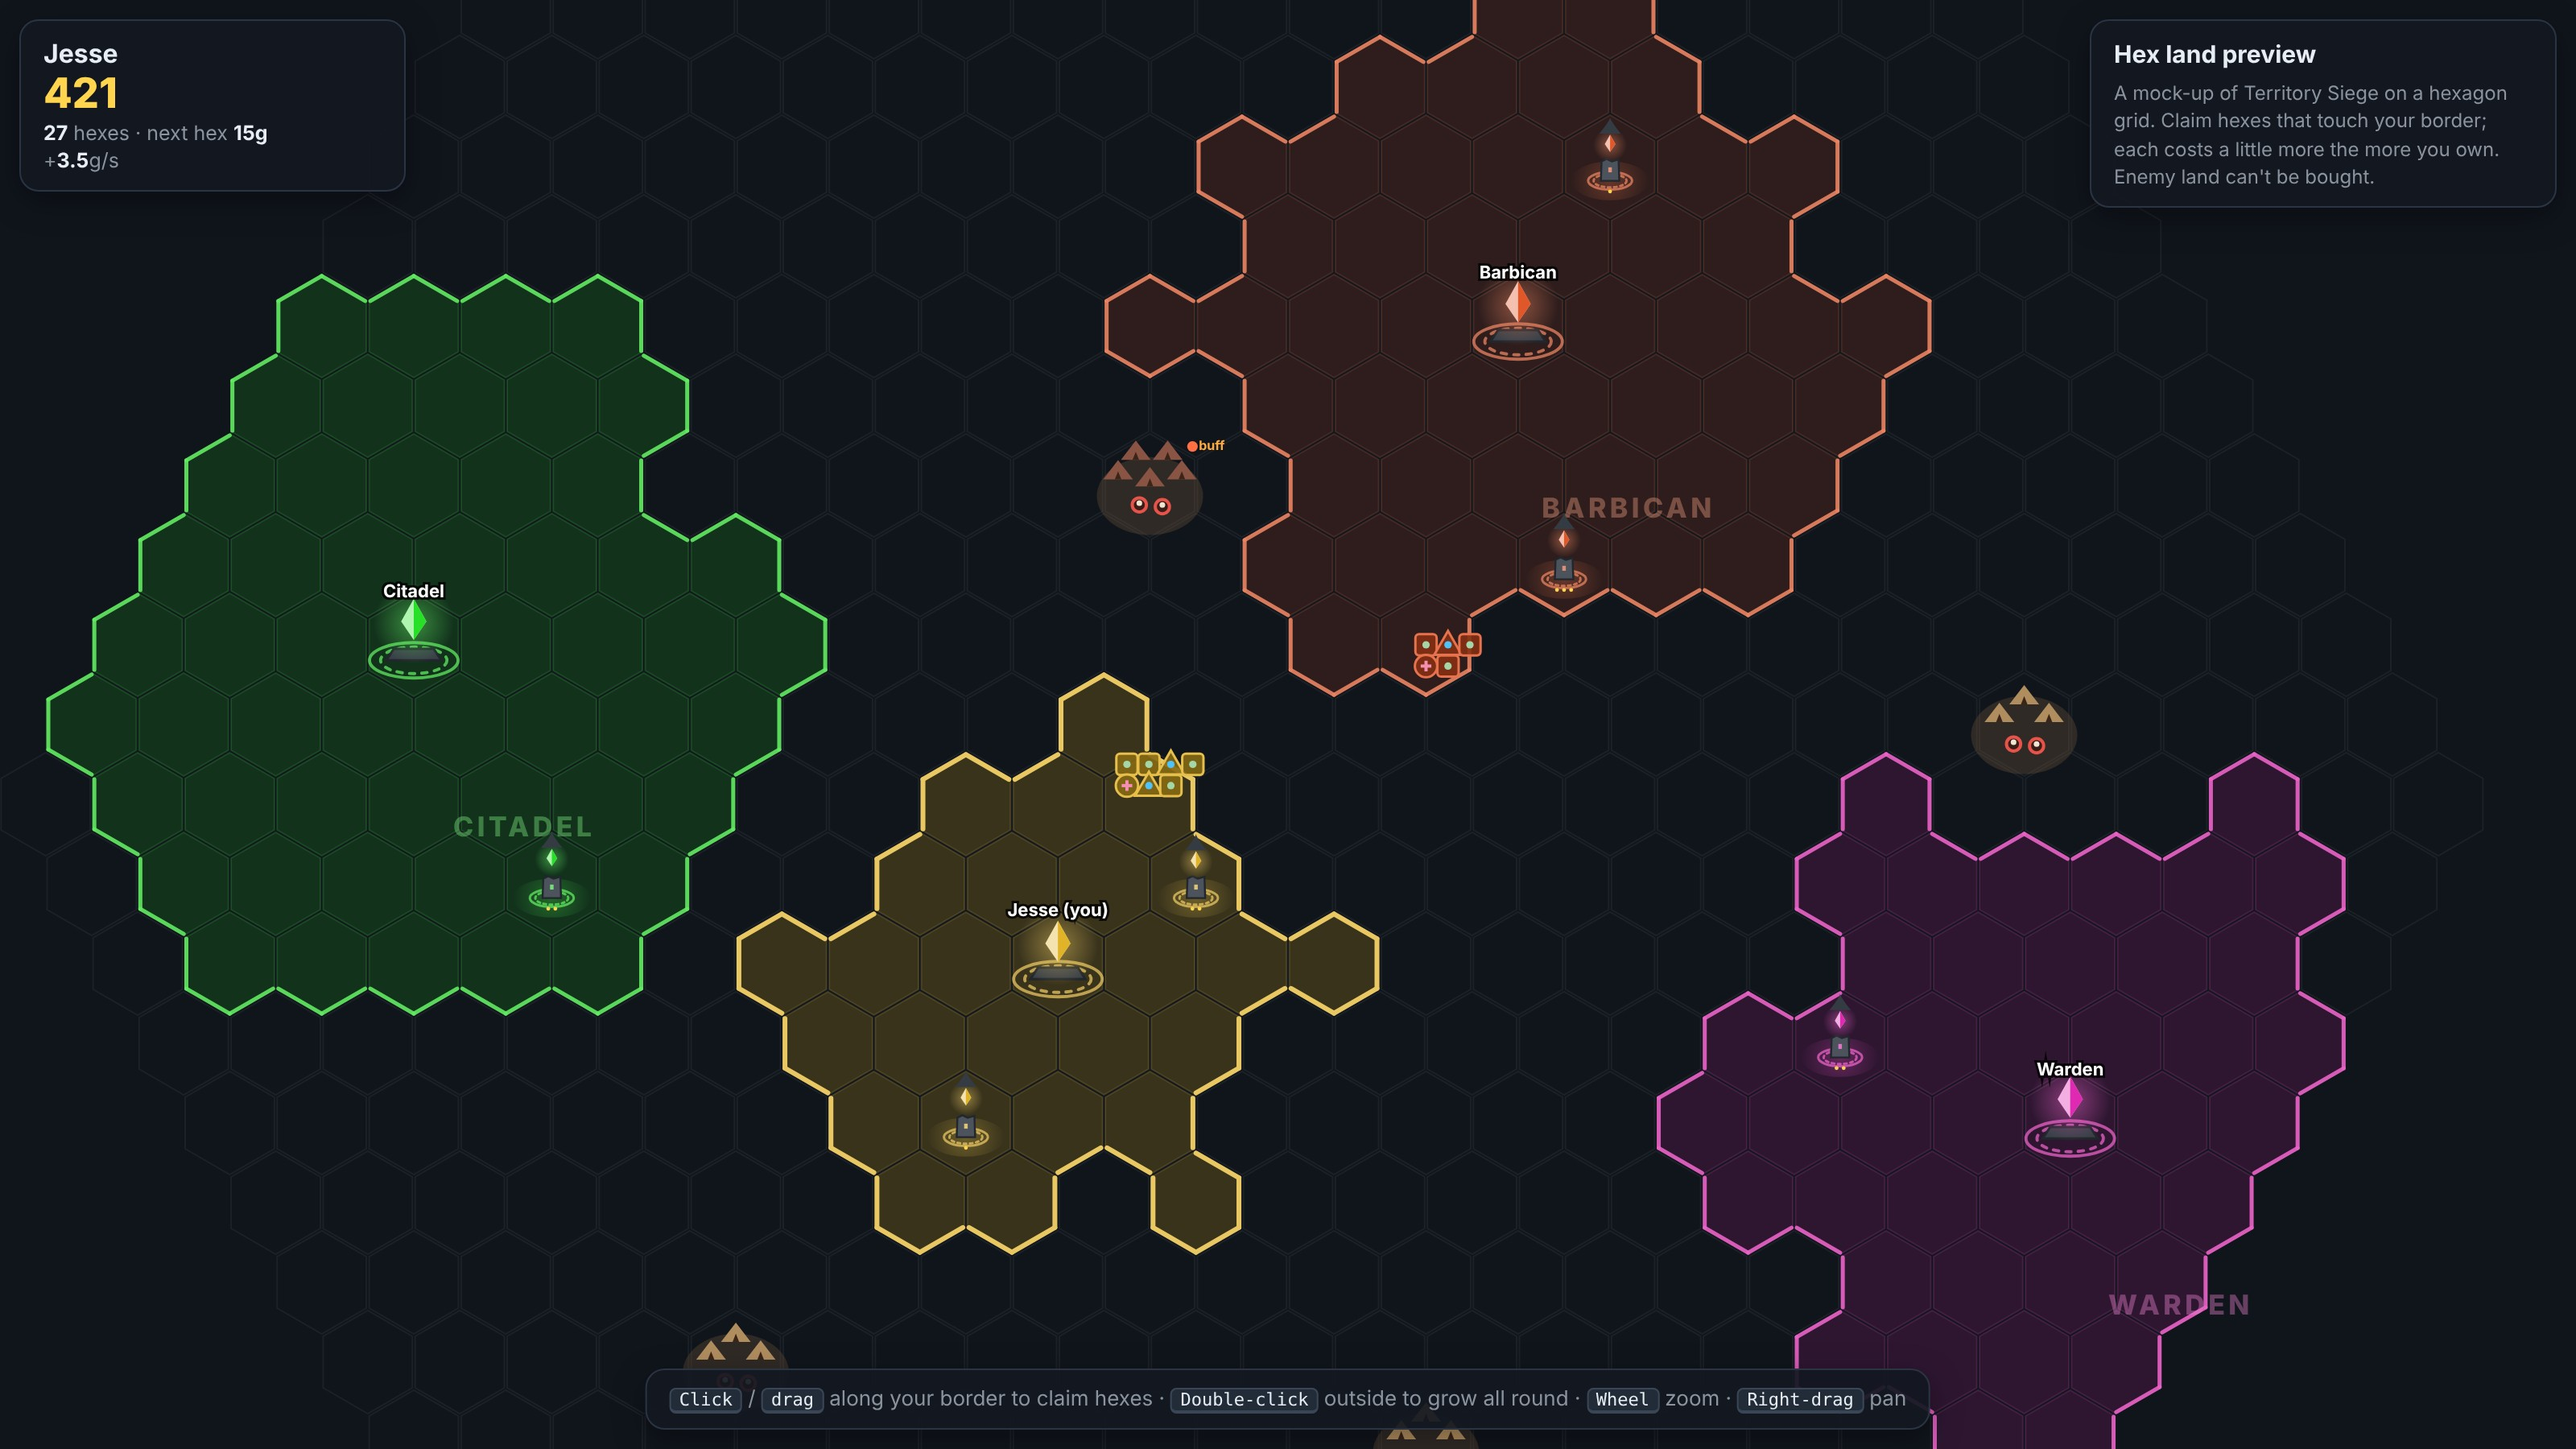
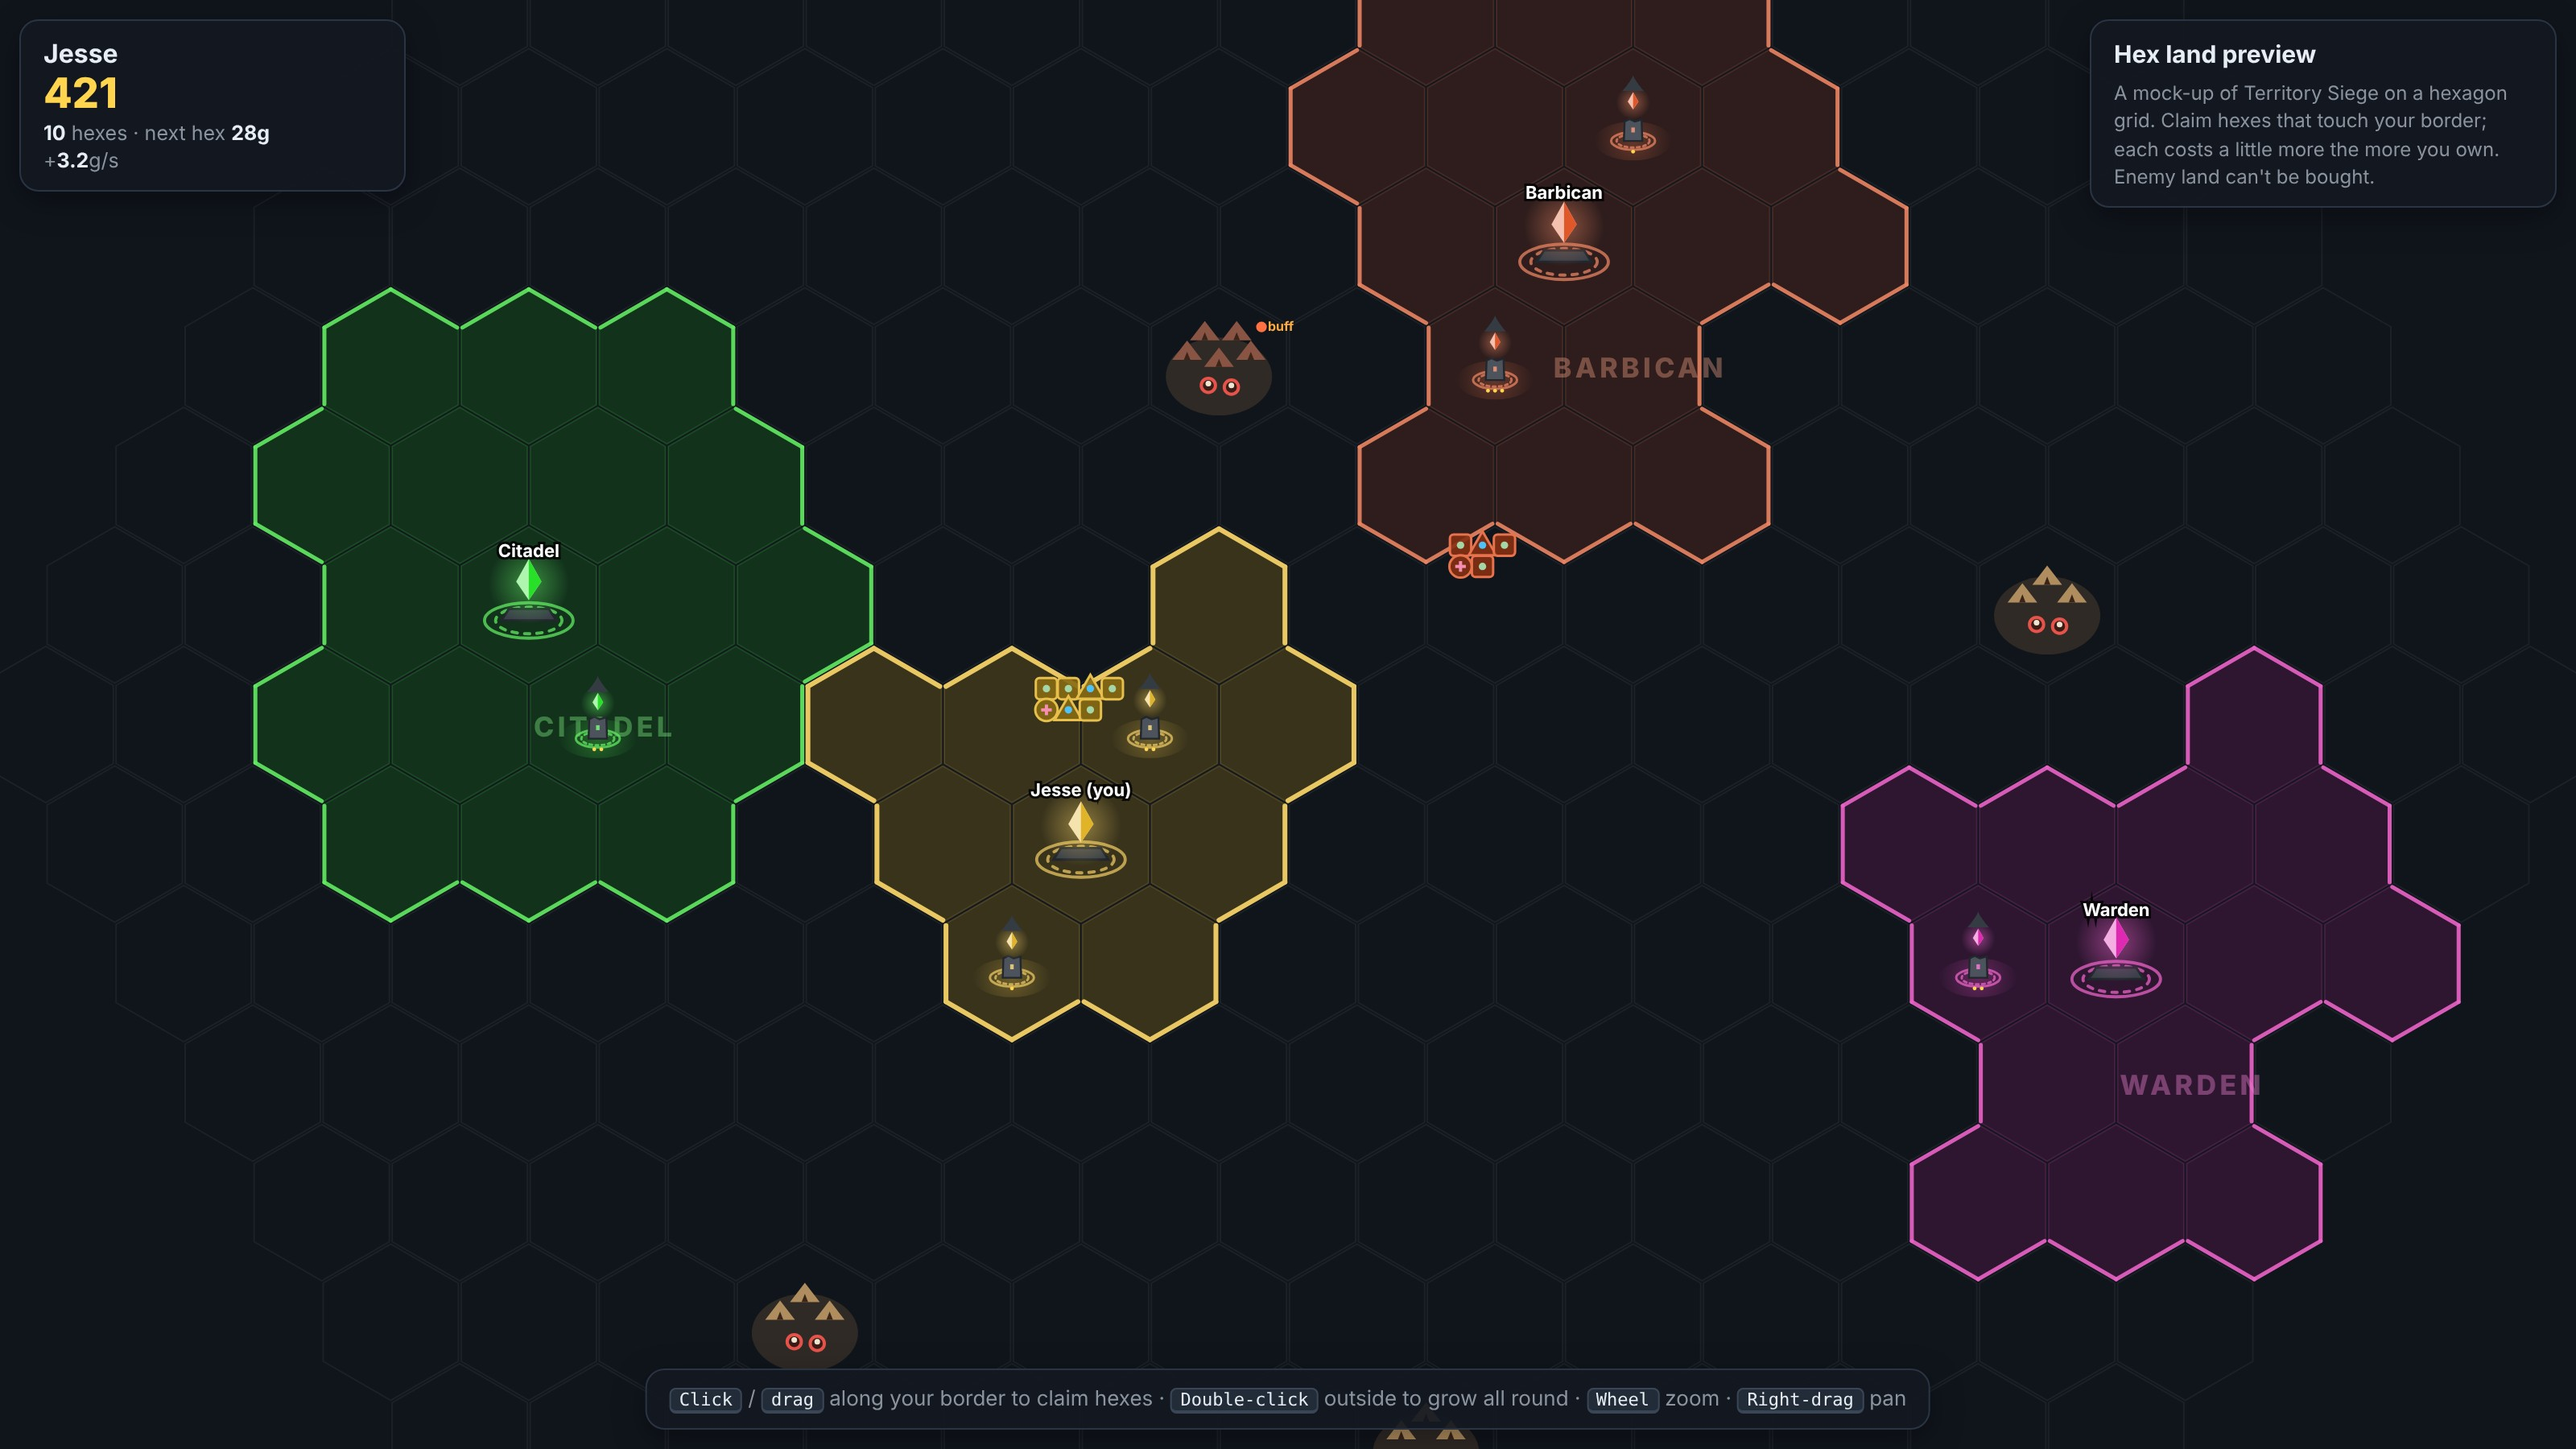
Hex preview: hexes another 50% bigger (2.25x the original), fewer of them
Same overall map size with a radius-9 hex map; layout, starting land and
pricing scaled to match (a hex is about 11 square tiles' worth).

Claude-Session: https://claude.ai/code/session_01Ryddt8EqVvd3a1HwS4TL86

diff --git a/public/hex-preview.html b/public/hex-preview.html
@@ -29,7 +29,7 @@
 <div id="toast"></div>
 <script>
 // ---------------------------------------------------------------- hex grid (pointy-top, axial q/r)
-const R = 13;              // map radius in hexes
+const R = 9;               // map radius in hexes
 const SQ3 = Math.sqrt(3);
 const cv = document.getElementById('c');
 const g = cv.getContext('2d');
@@ -42,7 +42,7 @@ const key = (q, r) => `${q},${r}`;
 const DIRS = [[1, 0], [1, -1], [0, -1], [-1, 0], [-1, 1], [0, 1]];
 const hexes = new Map(); // key -> { q, r, owner }
 for (let q = -R; q <= R; q++) for (let r = Math.max(-R, -q - R); r <= Math.min(R, -q + R); r++) hexes.set(key(q, r), { q, r, owner: 0 });
-const HS = 1.5;            // hex radius in world units: hexes are this much bigger than the buildings and troops on them
+const HS = 2.25;           // hex radius in world units: hexes are this much bigger than the buildings and troops on them
 const toPix = (q, r) => [HS * SQ3 * (q + r / 2), HS * 1.5 * r];
 const hexDist = (a, b) => (Math.abs(a.q - b.q) + Math.abs(a.r - b.r) + Math.abs(a.q + a.r - b.q - b.r)) / 2;
 function pixToHex(x, y) {
@@ -57,19 +57,19 @@ const neighbours = (h) => DIRS.map(([dq, dr]) => hexes.get(key(h.q + dq, h.r + d
 
 // ---------------------------------------------------------------- players, buildings, camps
 const PLAYERS = {
-  1: { name: 'Jesse', hue: 45, core: { q: -3, r: 2 } },
-  2: { name: 'Barbican', hue: 15, core: { q: 6, r: -6 } },
-  3: { name: 'Warden', hue: 315, core: { q: 7, r: 4 } },
-  4: { name: 'Citadel', hue: 120, core: { q: -8, r: -2 } },
+  1: { name: 'Jesse', hue: 45, core: { q: -2, r: 1 } },
+  2: { name: 'Barbican', hue: 15, core: { q: 4, r: -4 } },
+  3: { name: 'Warden', hue: 315, core: { q: 5, r: 2 } },
+  4: { name: 'Citadel', hue: 120, core: { q: -5, r: -1 } },
 };
 const ME = 1;
 const col = (pid, l = 55, a = 1) => `hsla(${PLAYERS[pid].hue}, 75%, ${l}%, ${a})`;
 const towers = [];
-const camps = [{ q: 1, r: -4, big: true }, { q: -2, r: 8 }, { q: 9, r: -1 }, { q: -9, r: 7 }];
+const camps = [{ q: 1, r: -3, big: true }, { q: -2, r: 6 }, { q: 6, r: -1 }, { q: -6, r: 5 }];
 // starting land: a hex "circle" round each core, then a few rings bought for the bots
 for (const [id, p] of Object.entries(PLAYERS)) {
   const c = hexes.get(key(p.core.q, p.core.r));
-  for (const h of hexes.values()) if (hexDist(h, c) <= 2) h.owner = +id;
+  for (const h of hexes.values()) if (hexDist(h, c) <= 1) h.owner = +id;
 }
 let rngS = 7; const rnd = () => ((rngS = (rngS * 16807) % 2147483647) / 2147483647);
 function grow(pid, n) {
@@ -83,17 +83,17 @@ function grow(pid, n) {
 }
 function buyable(pid) { const out = []; for (const h of hexes.values()) if (!h.owner && !campAt(h) && neighbours(h).some((n) => n.owner === pid)) out.push(h); return out; }
 const campAt = (h) => camps.find((c) => hexDist(c, h) <= 1);
-grow(2, 30); grow(3, 24); grow(4, 36); grow(1, 8);
-towers.push({ q: 5, r: -3, o: 2, lvl: 3 }, { q: 8, r: -8, o: 2, lvl: 1 }, { q: 5, r: 3, o: 3, lvl: 2 }, { q: -8, r: 1, o: 4, lvl: 2 }, { q: -1, r: 1, o: 1, lvl: 2 }, { q: -5, r: 4, o: 1, lvl: 1 });
+grow(2, 9); grow(3, 7); grow(4, 11); grow(1, 3);
+towers.push({ q: 3, r: -3, o: 2, lvl: 3 }, { q: 5, r: -5, o: 2, lvl: 1 }, { q: 4, r: 2, o: 3, lvl: 2 }, { q: -5, r: 0, o: 4, lvl: 2 }, { q: -1, r: 0, o: 1, lvl: 2 }, { q: -3, r: 2, o: 1, lvl: 1 });
 const troops = [];
-for (let i = 0; i < 7; i++) troops.push({ x: toPix(-1, -0.5)[0] + (i % 4) * 0.62, y: toPix(-1, -0.5)[1] + Math.floor(i / 4) * 0.6, o: 1, k: ['soldier', 'soldier', 'archer', 'soldier', 'medic', 'archer', 'soldier'][i] });
-for (let i = 0; i < 5; i++) troops.push({ x: toPix(3, -2)[0] + (i % 3) * 0.62, y: toPix(3, -2)[1] + Math.floor(i / 3) * 0.6, o: 2, k: ['soldier', 'archer', 'soldier', 'medic', 'soldier'][i] });
+for (let i = 0; i < 7; i++) troops.push({ x: toPix(-1.6, -0.3)[0] + (i % 4) * 0.62, y: toPix(-1.6, -0.3)[1] + Math.floor(i / 4) * 0.6, o: 1, k: ['soldier', 'soldier', 'archer', 'soldier', 'medic', 'archer', 'soldier'][i] });
+for (let i = 0; i < 5; i++) troops.push({ x: toPix(2, -1.5)[0] + (i % 3) * 0.62, y: toPix(2, -1.5)[1] + Math.floor(i / 3) * 0.6, o: 2, k: ['soldier', 'archer', 'soldier', 'medic', 'soldier'][i] });
 
 // ---------------------------------------------------------------- economy (same formula as the game)
 let gold = 420;
 const myLand = () => [...hexes.values()].filter((h) => h.owner === ME).length;
-const cost = (land) => Math.ceil(5 + land * 0.35); // a hex is ~5 square tiles' worth of land
-const income = (land) => 1.5 + land * 0.075;
+const cost = (land) => Math.ceil(11 + land * 1.7); // a hex is ~11 square tiles' worth of land
+const income = (land) => 1.5 + land * 0.17;
 setInterval(() => { gold += income(myLand()) / 4; ui(); }, 250);
 function ui() {
   const n = myLand();
@@ -248,7 +248,7 @@ function frame(t) {
   // 4. names across land, camps, buildings, troops
   for (const [id, p] of Object.entries(PLAYERS)) {
     if (+id === ME) continue;
-    const [x, y] = toScreen(...toPix(p.core.q, p.core.r + 2.4));
+    const [x, y] = toScreen(...toPix(p.core.q, p.core.r + 1.1));
     g.font = `800 ${Math.round(s * .75)}px system-ui`; g.textAlign = 'center'; g.letterSpacing = `${s * .1}px`;
     g.fillStyle = col(+id, 72, .4); g.fillText(p.name.toUpperCase(), x, y); g.letterSpacing = '0px';
   }
@@ -264,7 +264,7 @@ function frame(t) {
   requestAnimationFrame(frame);
 }
 // start centred between my base and the rivals
-cam.x = toPix(1, -1)[0]; cam.y = toPix(1, -1)[1];
+cam.x = toPix(0, 0)[0]; cam.y = toPix(0, 0)[1];
 ui();
 requestAnimationFrame(frame);
 window.HEX = { hexes, toScreen, toPix, key, cam, buyable, commit, ME, get gold() { return gold; }, set gold(v) { gold = v; } };
